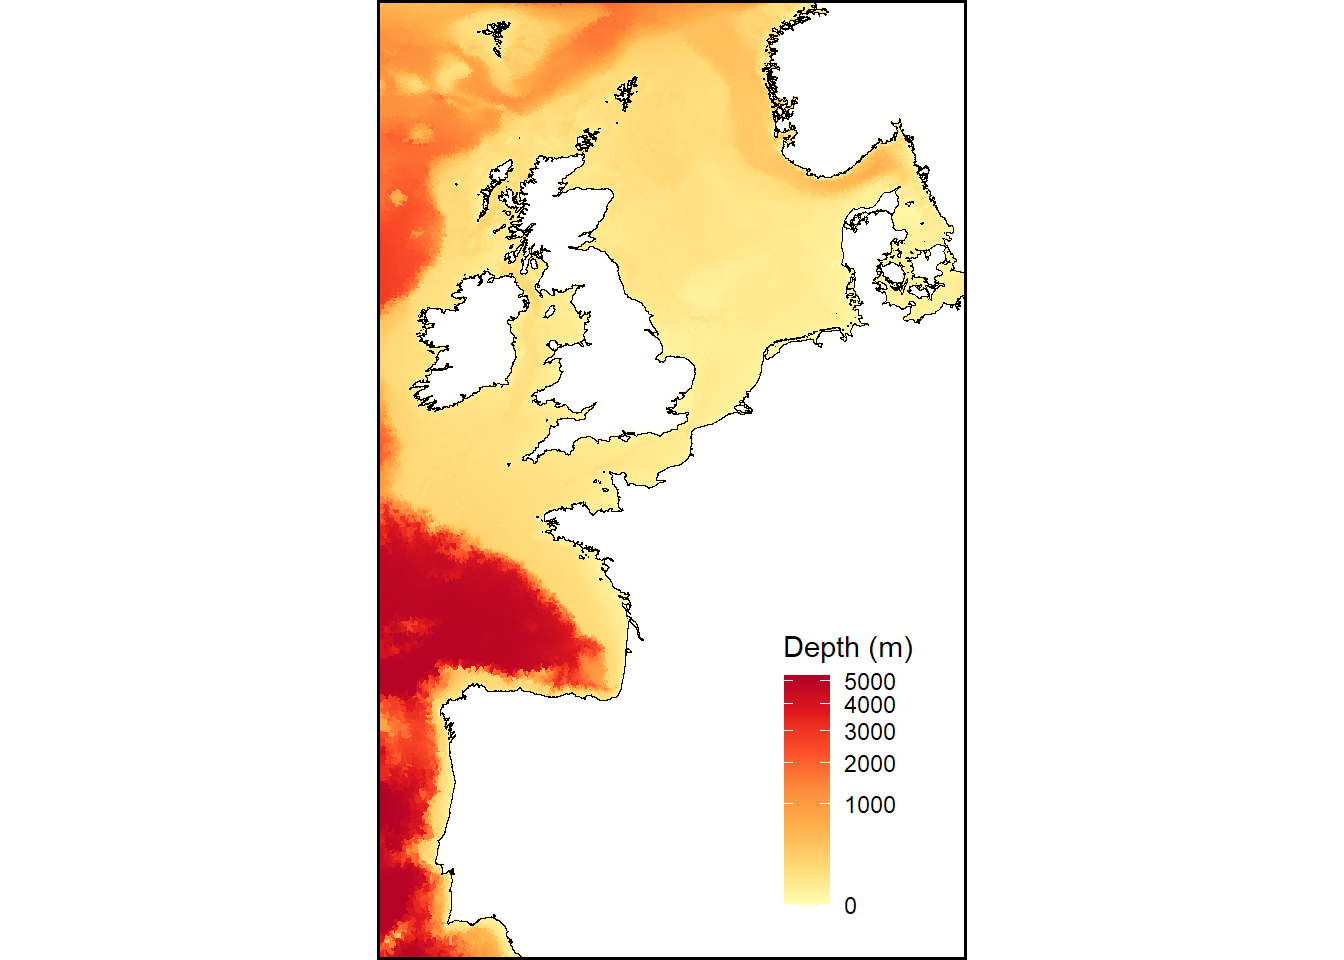
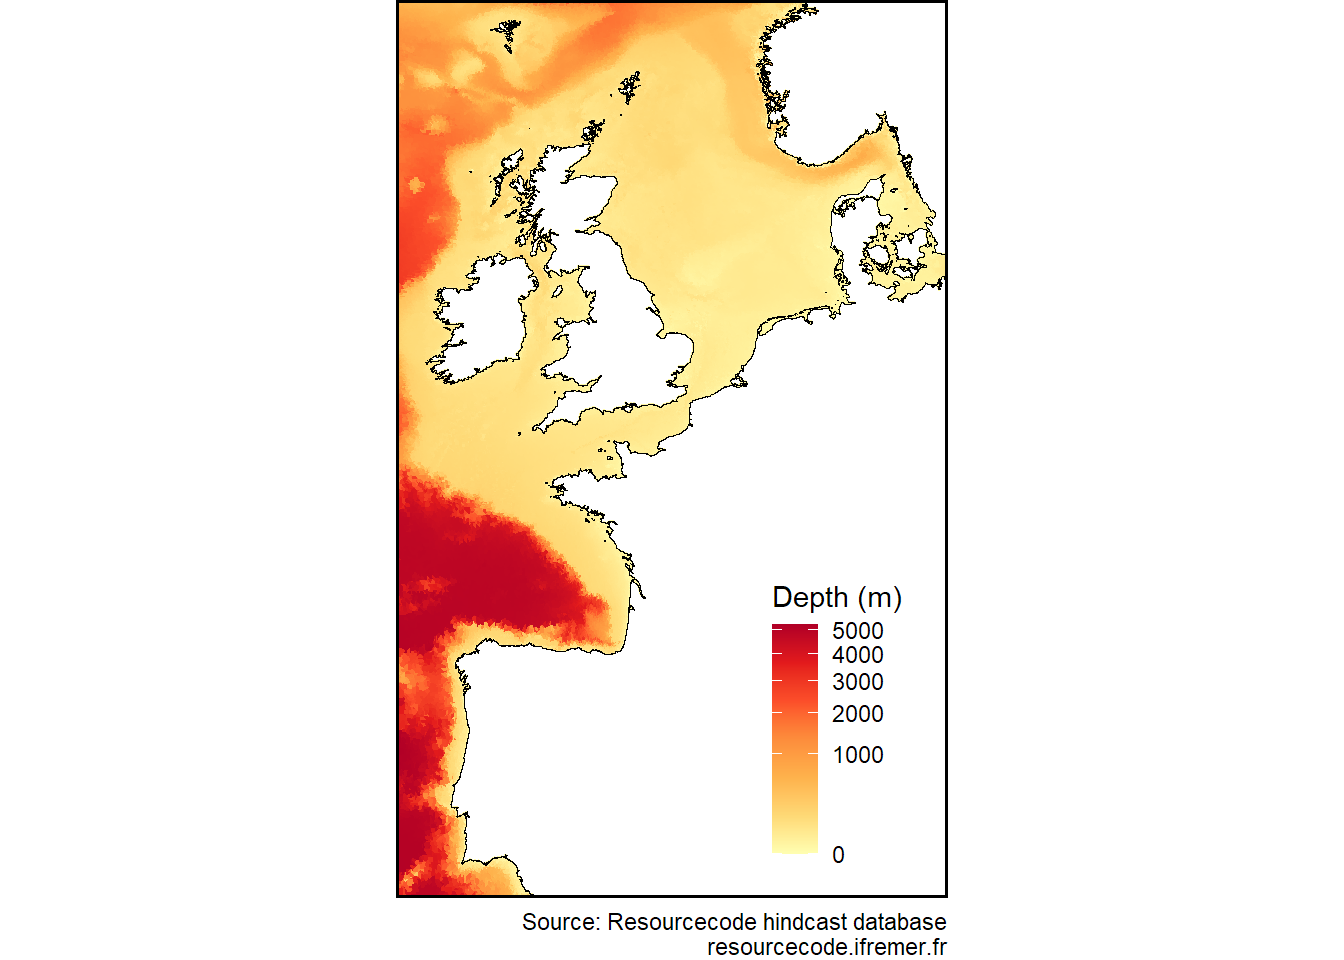
Adds two new functions: `mean_direction()`and `cut_directions()`

Changed region(s): [[0.2812, 0.0, 0.7188, 1.0]]

diff --git a/README.md b/README.md
@@ -40,9 +40,12 @@ You can install the development version of `{resourcecode}` thanks to
 [r-universe](https://resourcecode-project.r-universe.dev/resourcecode):
 
 ``` r
-install.packages('resourcecode', 
-                 repos = c('https://resourcecode-project.r-universe.dev',
-                           'https://cloud.r-project.org'))
+install.packages("resourcecode",
+  repos = c(
+    "https://resourcecode-project.r-universe.dev",
+    "https://cloud.r-project.org"
+  )
+)
 ```
 
 or using the classical:
@@ -58,7 +61,6 @@ Plot the bathymetry used in the project
 ``` r
 library(resourcecode)
 library(resourcecodedata)
-#> Warning: le package 'resourcecodedata' a été compilé avec la version R 4.4.2
 resourcecode::rscd_mapplot(rscd_field$depth, name = "Depth (m)", transform = "sqrt")
 ```
 

diff --git a/NEWS.md b/NEWS.md
@@ -1,6 +1,9 @@
 # resourcecode (development version)
 
 - `rscd_mapplot()`: add Resourcecode caption.
+- New helpers:
+  - `mean_direction()` to compute (weighted) mean values of directional variables,
+  - `cut_directions()` to bin a vector of directions into sectors, centred North.
 
 # resourcecode 0.2.1
 
